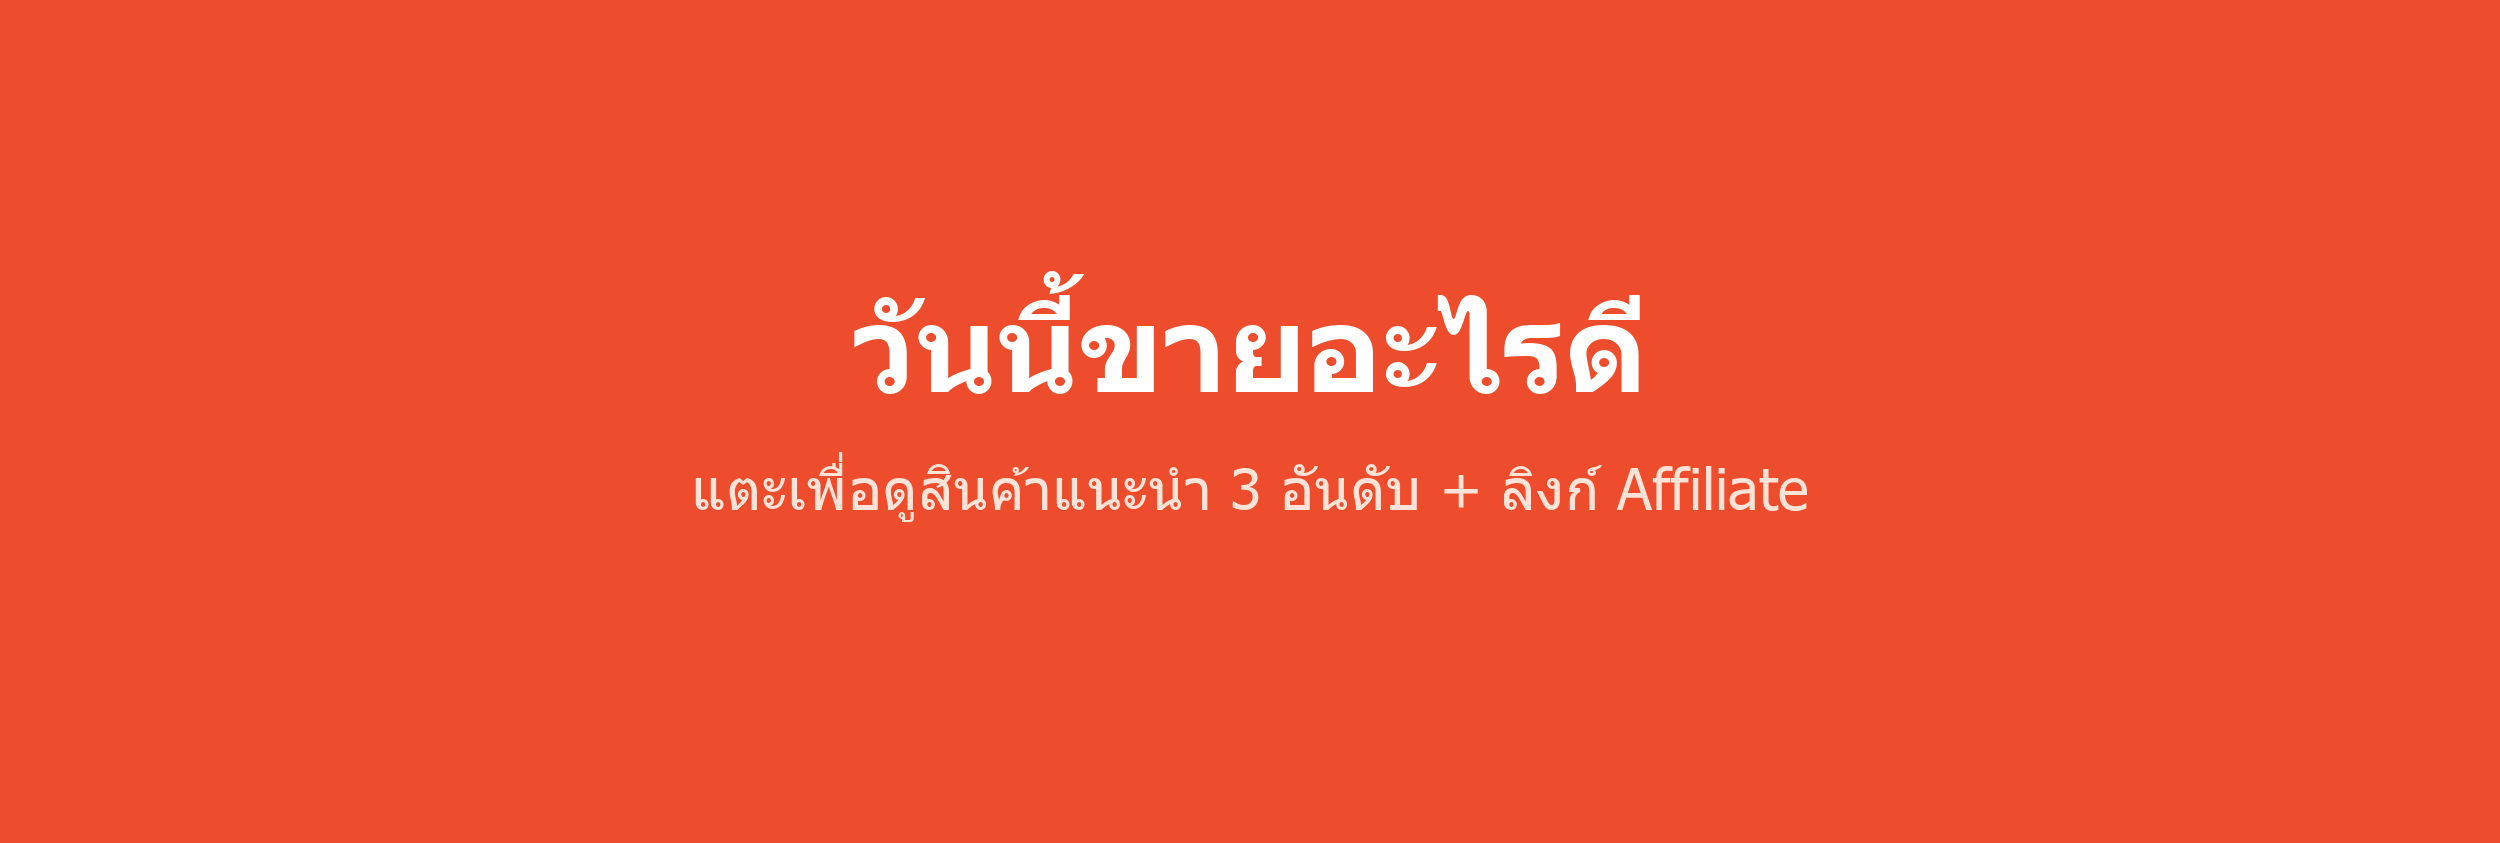
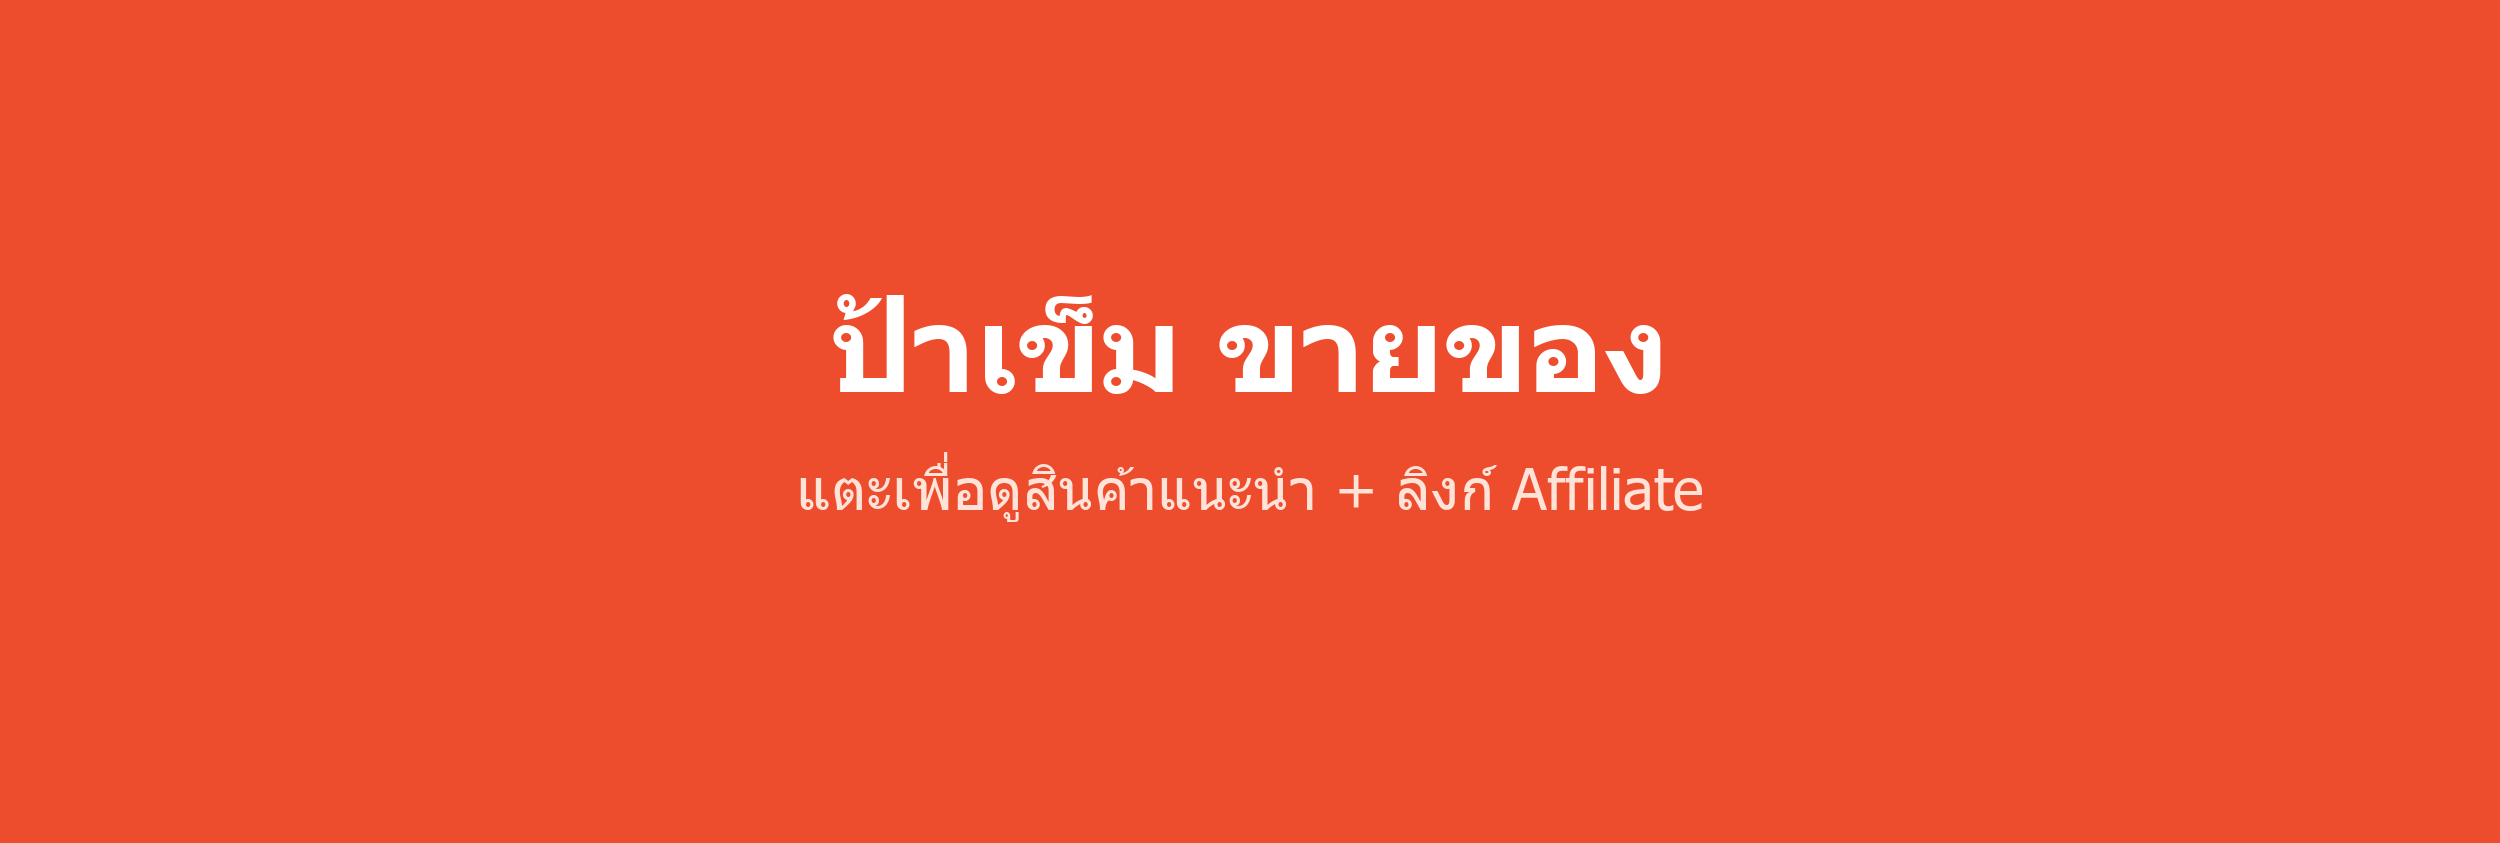
feat(line): brand the bot as "ป้าเข็ม ขายของ"
Show the shop name as the sender on every reply, use it in the welcome
message, and rebuild the rich menu with the new branding.

Generated with Codebuff 🤖

Changed region(s): [[0.312, 0.3084, 0.6864, 0.4626], [0.2808, 0.5552, 0.7176, 0.6168]]

diff --git a/backend/app/api/line_bot.py b/backend/app/api/line_bot.py
@@ -7,7 +7,7 @@ from fastapi import APIRouter, HTTPException, Header, Request
 from sqlalchemy.orm import Session
 from linebot import LineBotApi, WebhookHandler
 from linebot.exceptions import InvalidSignatureError
-from linebot.models import TextMessage, MessageEvent, TextSendMessage, StickerMessage, StickerSendMessage
+from linebot.models import TextMessage, MessageEvent, TextSendMessage, StickerMessage, StickerSendMessage, Sender
 from pydantic import BaseModel
 
 from app.db import SessionLocal, get_db
@@ -21,6 +21,10 @@ LINE_SECRET = os.getenv('LINE_CHANNEL_SECRET') or "mock_line_channel_secret"
 
 line_bot_api = LineBotApi(LINE_ACCESS_TOKEN)
 handler = WebhookHandler(LINE_SECRET)
+
+# ชื่อร้าน/บอทที่แสดงบนข้อความตอบกลับ (ชื่อหัวแชทตั้งที่ LINE Official Account Manager)
+BOT_NAME = "ป้าเข็ม ขายของ"
+BOT_ICON_URL = "https://profile.line-scdn.net/0hERy_y3n3Gn1EJgY083hlKnhjFBAzCBw1PEVTE2UuR01sRAh-e0FdS2YmQEw-EF5_LBBcG2UiREg7"
 
 router = APIRouter(
     prefix="/webhooks",
@@ -224,7 +228,7 @@ def message_text(event):
                 reply_text = format_product_message(db, user, hits)
             else:
                 reply_text = (
-                    f"🤖 สวัสดีครับคุณ {user.name}! ยินดีต้อนรับสู่ร้านของเรา 😊\n\n"
+                    f"🤖 สวัสดีครับคุณ {user.name}! ยินดีต้อนรับสู่ร้าน{BOT_NAME} 😊\n\n"
                     "นี่คือสินค้าแนะนำวันนี้ — แตะลิงก์สั่งซื้อได้เลยครับ 🛒\n\n"
                 ) + handle_today_deals(db, user)
     except Exception as e:
@@ -238,7 +242,7 @@ def message_text(event):
     else:
         line_bot_api.reply_message(
             event.reply_token,
-            TextSendMessage(text=reply_text)
+            TextSendMessage(text=reply_text, sender=Sender(name=BOT_NAME, icon_url=BOT_ICON_URL))
         )
 
 

diff --git a/tools/_make_richmenu.py b/tools/_make_richmenu.py
@@ -31,8 +31,8 @@ d = ImageDraw.Draw(img)
 f_main = ImageFont.truetype(r"C:\Windows\Fonts\tahomabd.ttf", 120)
 f_sub = ImageFont.truetype(r"C:\Windows\Fonts\tahoma.ttf", 58)
 
-main = "วันนี้ขายอะไรดี"
-sub = "แตะเพื่อดูสินค้าแนะนำ 3 อันดับ + ลิงก์ Affiliate"
+main = "ป้าเข็ม ขายของ"
+sub = "แตะเพื่อดูสินค้าแนะนำ + ลิงก์ Affiliate"
 
 w1 = d.textlength(main, font=f_main)
 w2 = d.textlength(sub, font=f_sub)
@@ -45,8 +45,8 @@ print("image saved:", IMG_PATH, os.path.getsize(IMG_PATH), "bytes")
 menu = {
     "size": {"width": W, "height": H},
     "selected": False,
-    "name": "Shopee Affiliate เมนูหลัก",
-    "chatBarText": "เมนู Affiliate",
+    "name": "ป้าเข็ม ขายของ เมนูหลัก",
+    "chatBarText": "เมนูป้าเข็ม",
     "areas": [
         {
             "bounds": {"x": 0, "y": 0, "width": W, "height": H},
